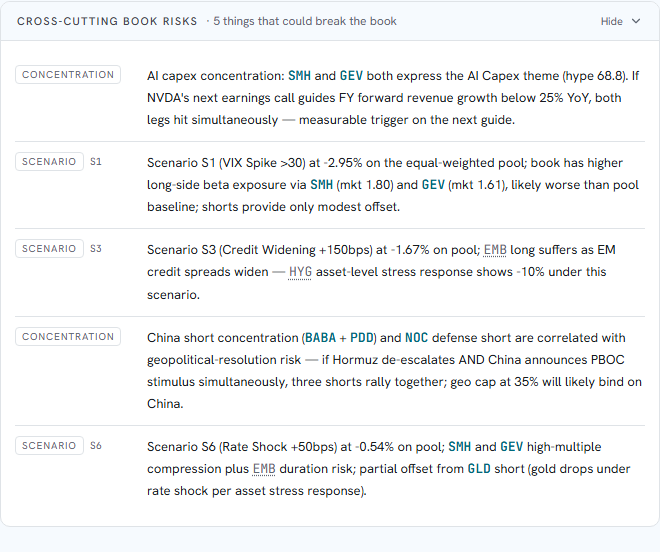
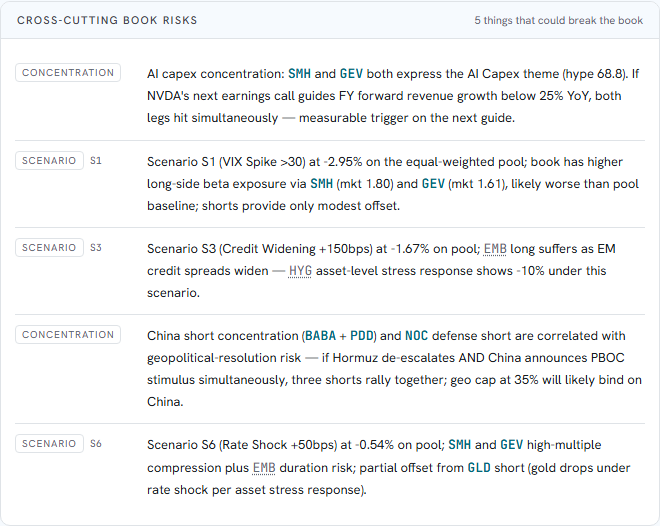
fix(book): cross-cutting book risks is a plain card, not a disclosure
It was a CollapsibleSection opened by default. A disclosure that always starts
open, and that nothing on the page has a reason to close, is a control with
nothing behind it — design goal 5, affordances match capability. The chevron
promised a state change worth making and there was not one.

What it actually is: five sentences on how this book breaks, on a page whose
whole job is to be doubted. That is not audit detail a reader opts into.

Now a plain `card` + `card-header` + `card-body`, the same shell as Sizing and
BookFunnel, with the count kept as the header's right-hand note.

The `CollapsibleSection` import is dropped with it — dead once the last caller in
this file went. The component itself stays; ClearedNotTaken still uses it, and
there the control does something (33 rows behind a summary).

Verified: zero `<details>` under #audit, no Show/Hide text, all five rows render.
1133 frontend tests, tsc clean.

diff --git a/frontend/components/book/BookBody.tsx b/frontend/components/book/BookBody.tsx
@@ -22,7 +22,6 @@ import {
   type ThemeEdge,
 } from "@/lib/themeSignals";
 import ThesisBlock from "@/components/research/ThesisBlock";
-import CollapsibleSection from "@/components/CollapsibleSection";
 import SectionNav from "@/components/SectionNav";
 import AnswerCards from "@/components/book/AnswerCards";
 
@@ -1625,21 +1624,26 @@ function BookPageInner() {
               screen: one dataset, one location, and the per-stage detail
               attached to the chain it details rather than in another tab. */}
 
-          {/* ── Book risks (collapsed — expand for the tail risks) ─────── */}
+          {/* ── Book risks ──────────────────────────────────────────────────
+              NOT collapsible, and no longer a `CollapsibleSection` at all. It
+              was one, opened by default; a disclosure that always starts open
+              and has no reason to be closed is a control with nothing behind it
+              — design goal 5, affordances match capability.
+
+              What it is, is five sentences on how this book breaks, on a page
+              whose whole job is to be doubted. That is not audit detail a reader
+              opts into; it is the panel this section exists for. A plain card,
+              like every other instrument here. */}
           {canRenderAdvisoryBody(advisory) &&
             rec.book_risks &&
             rec.book_risks.length > 0 && (
-              <CollapsibleSection
-                title="Cross-cutting book risks"
-                summary={`${rec.book_risks.length} things that could break the book`}
-                // Open on arrival. It is five sentences about how this book
-                // breaks, on a page whose job is to be doubted — the one panel
-                // here a reader should not have to opt into. It stays a
-                // `CollapsibleSection` rather than becoming plain markup so it
-                // can still be closed, and so it keeps the same shell as its
-                // neighbours.
-                defaultOpen
-              >
+              <div className="card mb-0">
+                <div className="card-header">
+                  <h2 className="card-title m-0">Cross-cutting book risks</h2>
+                  <span className="text-[11px] text-text-tertiary">
+                    {rec.book_risks.length} things that could break the book
+                  </span>
+                </div>
                 <div className="card-body">
                   {/* Marked rows, not bullets. A held ticker opens that
                       position; one that cleared the screen and is NOT held is
@@ -1658,7 +1662,7 @@ function BookPageInner() {
                     onSelectAsset={selectFromFunnel}
                   />
                 </div>
-              </CollapsibleSection>
+              </div>
             )}
           </section>
           </div>
